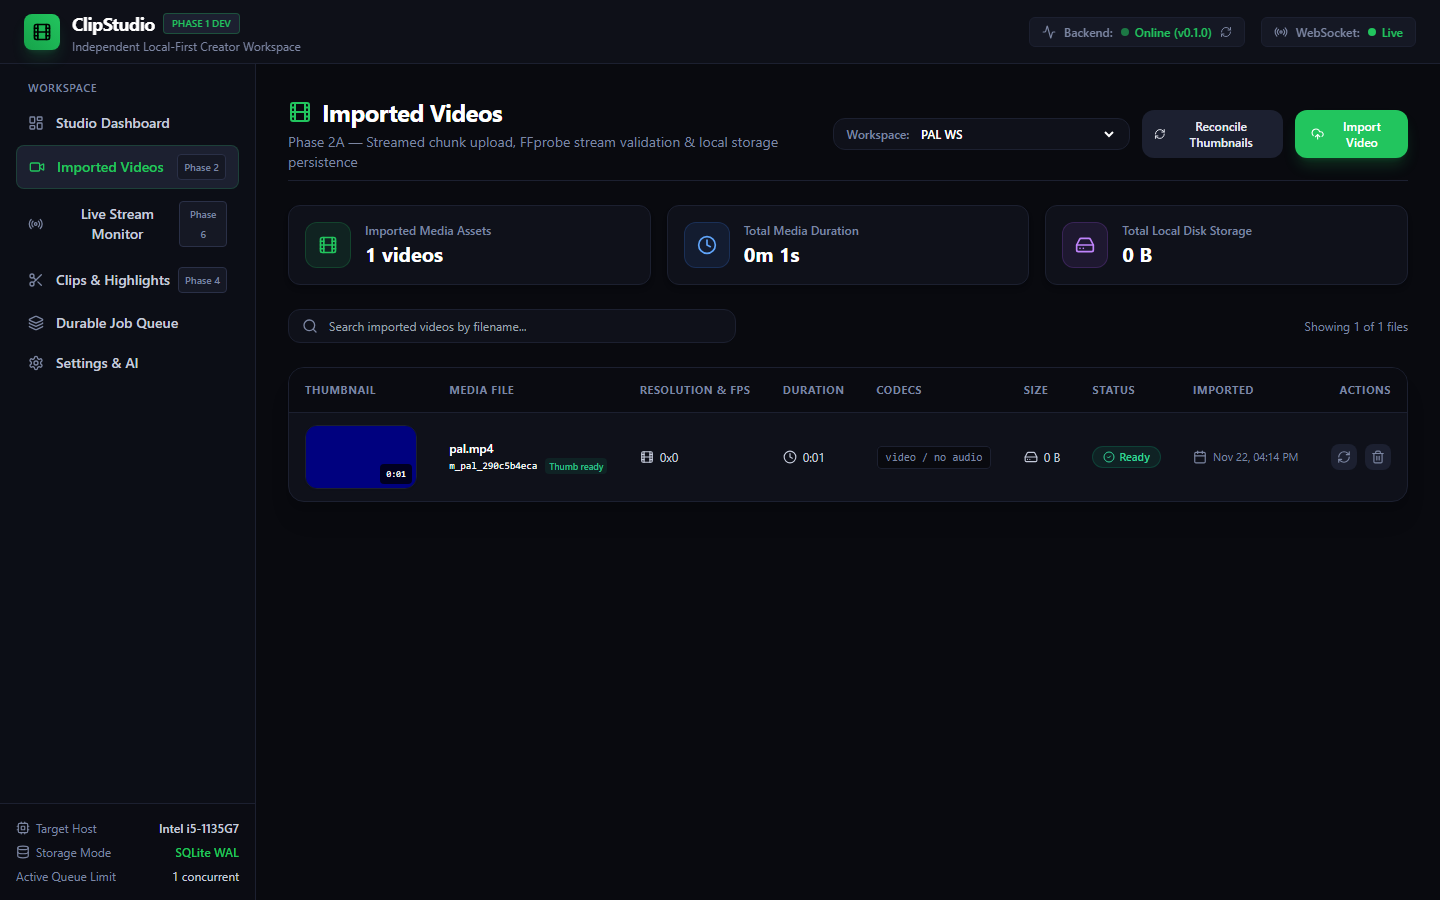
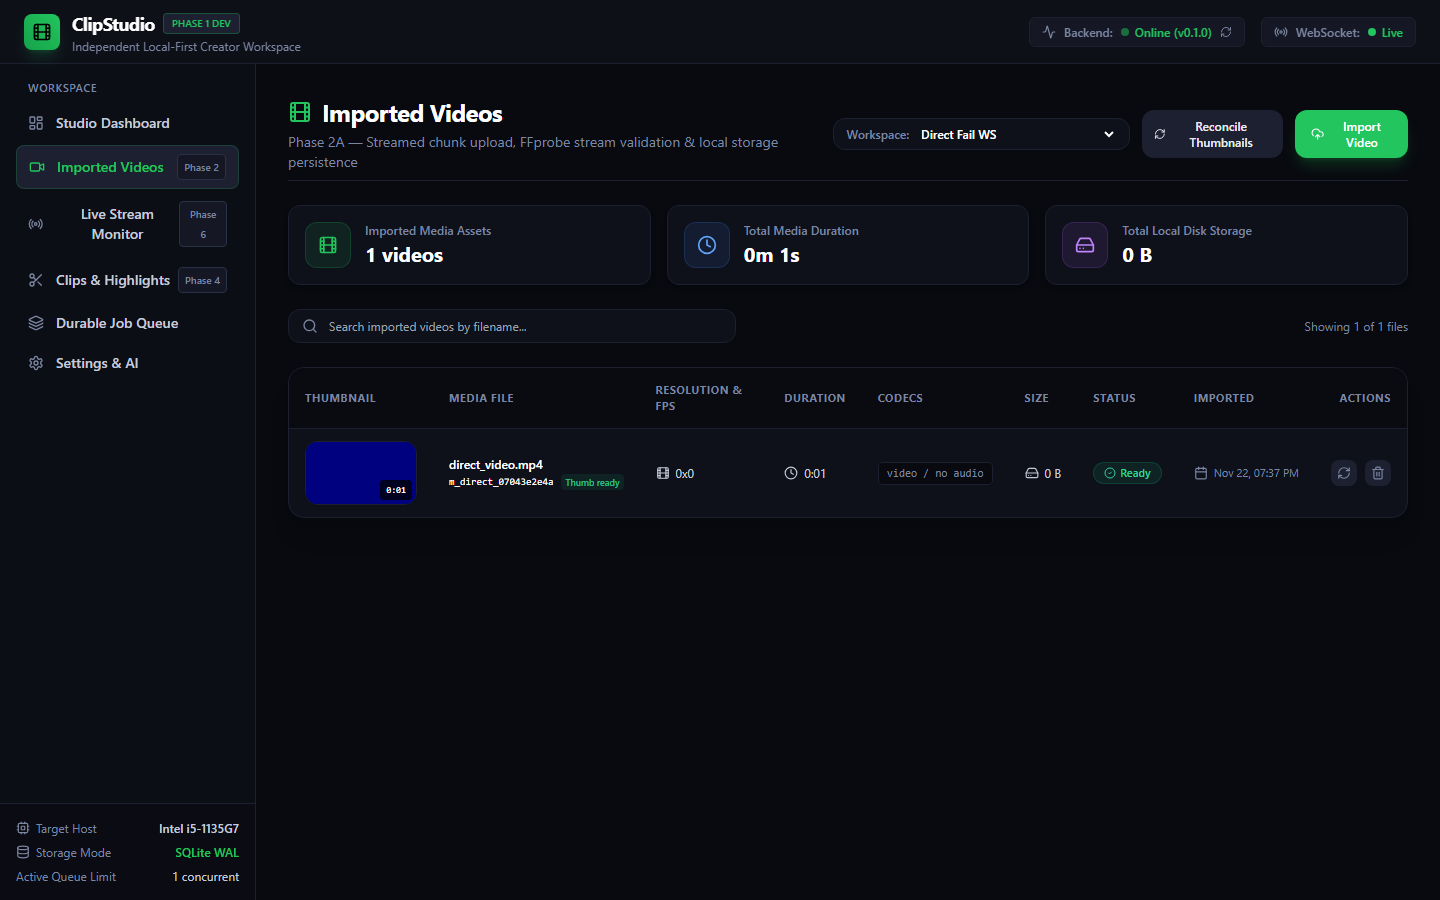
fix: harden thumbnail generation reliability
- Issue A: Prevent thumbnails from remaining indefinitely in invalid pending state by transitioning to failed on enqueue failure and broadcasting failure WebSocket event

- Issue B: Extract actual JPEG dimensions upon frame extraction, persist in ProcessingJob.result_data, and expose in real-time WebSocket broadcast

- Update backend and frontend tests (84/84 backend, 15/15 frontend passing)

- Add automated acceptance script and capture physical browser evidence

diff --git a/clipstudio-frontend/src/components/media/MediaTable.tsx b/clipstudio-frontend/src/components/media/MediaTable.tsx
@@ -291,6 +291,11 @@ export const MediaTable: React.FC<MediaTableProps> = ({
                                 Thumb ready
                               </span>
                             )}
+                            {thumbStatus === 'failed' && (
+                              <span className="text-[9px] text-red-400/90 font-medium bg-red-500/10 px-1 rounded">
+                                Thumb failed
+                              </span>
+                            )}
                           </div>
                         </div>
                       </div>

diff --git a/clipstudio-frontend/src/components/media/__tests__/MediaTable.test.tsx b/clipstudio-frontend/src/components/media/__tests__/MediaTable.test.tsx
@@ -186,6 +186,7 @@ describe('MediaTable Component - Thumbnail Engine Integration (Phase 2B.2)', () 
 
     const retryBtn = screen.getByRole('button', { name: /retry/i });
     expect(retryBtn).toBeDefined();
+    expect(screen.getByText('Thumb failed')).toBeDefined();
 
     await act(async () => {
       fireEvent.click(retryBtn);

diff --git a/clipstudio-backend/app/services/job_queue.py b/clipstudio-backend/app/services/job_queue.py
@@ -317,6 +317,10 @@ class JobQueueService:
                 duration_seconds=duration,
             )
 
+            from app.services.thumbnail import get_jpeg_dimensions
+            actual_w, actual_h = get_jpeg_dimensions(promoted_path)
+            file_size = promoted_path.stat().st_size if promoted_path.exists() else 0
+
             # 3. Update video record with generated thumbnail
             now = datetime.now(timezone.utc)
             async with async_session_factory() as session:
@@ -335,7 +339,9 @@ class JobQueueService:
                 message="Thumbnail generated successfully.",
                 result_data={
                     "thumbnail_path": rel_path,
-                    "file_size_bytes": promoted_path.stat().st_size if promoted_path.exists() else 0,
+                    "file_size_bytes": file_size,
+                    "width": actual_w,
+                    "height": actual_h,
                 },
             )
 
@@ -345,6 +351,9 @@ class JobQueueService:
                 "workspace_id": workspace_id,
                 "status": "completed",
                 "thumbnail_url": f"/api/v1/media/{media_id}/thumbnail",
+                "width": actual_w,
+                "height": actual_h,
+                "file_size_bytes": file_size,
                 "timestamp": now.isoformat(),
             })
 
@@ -378,78 +387,109 @@ class JobQueueService:
         Atomically sets ImportedVideo.thumbnail_status = 'pending' and creates ProcessingJob
         in a single transaction to prevent race conditions and SQLite multi-session deadlocks.
         Dispatches background worker only after database transaction commit succeeds.
+        On any enqueue failure, transitions media record to 'failed' and logs full diagnostics.
         """
-        if self._fault_injection_fail_enqueue:
-            raise RuntimeError("Simulated thumbnail job enqueue failure (fault injection active)")
+        try:
+            if self._fault_injection_fail_enqueue:
+                raise RuntimeError("Simulated thumbnail job enqueue failure (fault injection active)")
 
-        lock = await self._get_media_lock(media_id)
-        async with lock:
-            async with async_session_factory() as session:
-                stmt = select(ProcessingJob).where(
-                    ProcessingJob.entity_type == "media",
-                    ProcessingJob.entity_id == media_id,
-                    ProcessingJob.job_type == "thumbnail_generation",
-                    ProcessingJob.status.in_(["queued", "running"]),
-                )
-                res = await session.execute(stmt)
-                existing = res.scalar_one_or_none()
-                if existing:
-                    logger.info(
-                        f"Active thumbnail job {existing.id} already exists for media {media_id}. Reusing existing job."
+            lock = await self._get_media_lock(media_id)
+            async with lock:
+                async with async_session_factory() as session:
+                    stmt = select(ProcessingJob).where(
+                        ProcessingJob.entity_type == "media",
+                        ProcessingJob.entity_id == media_id,
+                        ProcessingJob.job_type == "thumbnail_generation",
+                        ProcessingJob.status.in_(["queued", "running"]),
                     )
-                    session.expunge(existing)
-                    return existing
+                    res = await session.execute(stmt)
+                    existing = res.scalar_one_or_none()
+                    if existing:
+                        logger.info(
+                            f"Active thumbnail job {existing.id} already exists for media {media_id}. Reusing existing job."
+                        )
+                        session.expunge(existing)
+                        return existing
 
-                from app.models.video import ImportedVideo
-                video = await session.get(ImportedVideo, media_id)
-                if video:
-                    video.thumbnail_status = "pending"
+                    from app.models.video import ImportedVideo
+                    video = await session.get(ImportedVideo, media_id)
+                    if video:
+                        video.thumbnail_status = "pending"
 
-                payload = {
-                    "media_id": media_id,
-                    "workspace_id": workspace_id,
-                    "file_path": file_path,
-                    "duration": duration_seconds,
-                }
-                job = ProcessingJob(
-                    job_type="thumbnail_generation",
-                    entity_type="media",
-                    entity_id=media_id,
+                    payload = {
+                        "media_id": media_id,
+                        "workspace_id": workspace_id,
+                        "file_path": file_path,
+                        "duration": duration_seconds,
+                    }
+                    job = ProcessingJob(
+                        job_type="thumbnail_generation",
+                        entity_type="media",
+                        entity_id=media_id,
+                        status="queued",
+                        progress_percent=0.0,
+                        current_step="Queued in scheduler",
+                        result_data=json.dumps(payload),
+                    )
+                    session.add(job)
+                    await session.commit()
+                    await session.refresh(job)
+                    session.expunge(job)
+                    job_id = job.id
+
+                # Broadcast initial queued status
+                await ws_manager.broadcast_job_progress(
+                    job_id=job_id,
                     status="queued",
                     progress_percent=0.0,
                     current_step="Queued in scheduler",
-                    result_data=json.dumps(payload),
+                    message="Job thumbnail_generation has been queued.",
                 )
-                session.add(job)
-                await session.commit()
-                await session.refresh(job)
-                session.expunge(job)
-                job_id = job.id
+                try:
+                    await ws_manager.broadcast({
+                        "event_type": "thumbnail_updated",
+                        "media_id": media_id,
+                        "workspace_id": workspace_id,
+                        "status": "queued",
+                        "timestamp": datetime.now(timezone.utc).isoformat(),
+                    })
+                except Exception:
+                    pass
 
-            # Broadcast initial queued status
-            await ws_manager.broadcast_job_progress(
-                job_id=job_id,
-                status="queued",
-                progress_percent=0.0,
-                current_step="Queued in scheduler",
-                message="Job thumbnail_generation has been queued.",
+                # Dispatch async execution task ONLY after database transaction has committed
+                task = asyncio.create_task(self._execute_job_wrapper(job_id, "thumbnail_generation", payload))
+                self._active_tasks[job_id] = task
+
+                return job
+
+        except Exception as exc:
+            logger.error(
+                f"Failed to enqueue thumbnail job for media {media_id} in workspace {workspace_id}: {exc}",
+                exc_info=True,
             )
+            # Ensure media thumbnail_status transitions to 'failed' rather than staying in an invalid 'pending' state
+            try:
+                async with async_session_factory() as fail_session:
+                    from app.models.video import ImportedVideo
+                    v = await fail_session.get(ImportedVideo, media_id)
+                    if v and v.thumbnail_status in ("pending", "processing"):
+                        v.thumbnail_status = "failed"
+                        await fail_session.commit()
+            except Exception as mark_err:
+                logger.error(f"Failed to mark media {media_id} thumbnail as failed after enqueue failure: {mark_err}")
+
             try:
                 await ws_manager.broadcast({
                     "event_type": "thumbnail_updated",
                     "media_id": media_id,
                     "workspace_id": workspace_id,
-                    "status": "queued",
+                    "status": "failed",
+                    "error": str(exc),
                     "timestamp": datetime.now(timezone.utc).isoformat(),
                 })
             except Exception:
                 pass
-
-            # Dispatch async execution task ONLY after database transaction has committed
-            task = asyncio.create_task(self._execute_job_wrapper(job_id, "thumbnail_generation", payload))
-            self._active_tasks[job_id] = task
-
-            return job
+            raise
 
     async def reconcile_pending_thumbnails(self, workspace_id: str | None = None) -> list[str]:
         """Scans imported videos for pending, interrupted, or missing thumbnails and safely schedules generation.

diff --git a/clipstudio-backend/tests/test_thumbnail_reliability.py b/clipstudio-backend/tests/test_thumbnail_reliability.py
@@ -1,5 +1,6 @@
 import asyncio
 from datetime import datetime, timezone, timedelta
+import json
 import os
 import shutil
 import tempfile
@@ -353,12 +354,14 @@ async def test_enqueue_failure_followed_by_recovery(tmp_path):
         comp_res = await client.post(f"/api/v1/media/uploads/{upload_id}/complete", json={})
         assert comp_res.status_code == 200  # import still succeeds gracefully!
         assert comp_res.json()["status"] == "completed"
+        # Issue A: Ensure thumbnail_status transitions to 'failed' rather than invalid 'pending'
+        assert comp_res.json()["video"]["thumbnail_status"] == "failed"
 
-    # Step 2: Verify in DB that video exists, thumbnail_status is 'pending', and no job was created
+    # Step 2: Verify in DB that video exists, thumbnail_status is 'failed', and no job was created
     async with async_session_factory() as session:
         v = await session.get(ImportedVideo, upload_id)
         assert v is not None
-        assert v.thumbnail_status == "pending"
+        assert v.thumbnail_status == "failed"
         jobs = (await session.execute(select(ProcessingJob).where(ProcessingJob.entity_id == upload_id))).scalars().all()
         assert len(jobs) == 0
 
@@ -792,3 +795,97 @@ async def test_thumbnail_job_cancellation_and_terminal_state(tmp_path):
     # Cancel job
     res = await job_queue.cancel_job(job.id)
     assert res is True or job.status == "completed"
+
+
+@pytest.mark.asyncio
+async def test_thumbnail_job_result_data_captures_actual_dimensions(tmp_path):
+    """Scenario 16: Completed thumbnail generation job persists actual width, height, and file size in result_data."""
+    ws_id = f"ws_dim_{uuid.uuid4().hex[:10]}"
+    media_id = f"m_dim_{uuid.uuid4().hex[:10]}"
+    video_file = tmp_path / "dim_video.mp4"
+    # Create 1920x1080 video -> generated thumbnail scaled to 640x360
+    await create_synthetic_video(video_file, width=1920, height=1080, duration_seconds=1.5)
+
+    async with async_session_factory() as session:
+        ws = Workspace(id=ws_id, name="Dim WS", local_storage_path="data/media")
+        session.add(ws)
+        v = ImportedVideo(
+            id=media_id,
+            workspace_id=ws_id,
+            file_name="dim_video.mp4",
+            file_path=str(video_file),
+            duration_seconds=1.5,
+            width=1920,
+            height=1080,
+            status="ready",
+            thumbnail_status="pending",
+        )
+        session.add(v)
+        await session.commit()
+
+    job = await job_queue.enqueue_thumbnail_job(
+        media_id=media_id,
+        workspace_id=ws_id,
+        file_path=str(video_file),
+        duration_seconds=1.5,
+    )
+
+    # Wait for completion
+    for _ in range(80):
+        async with async_session_factory() as session:
+            j = await session.get(ProcessingJob, job.id)
+            if j and j.status == "completed":
+                break
+        await asyncio.sleep(0.1)
+
+    async with async_session_factory() as session:
+        completed_job = await session.get(ProcessingJob, job.id)
+        assert completed_job is not None
+        assert completed_job.status == "completed"
+        assert completed_job.result_data is not None
+        result_info = json.loads(completed_job.result_data)
+        assert result_info["width"] == 640
+        assert result_info["height"] == 360
+        assert result_info["file_size_bytes"] > 0
+
+
+@pytest.mark.asyncio
+async def test_direct_enqueue_failure_marks_media_failed(tmp_path):
+    """Scenario 17: Direct enqueue_thumbnail_job failure transitions media record to failed rather than pending."""
+    ws_id = f"ws_direct_{uuid.uuid4().hex[:10]}"
+    media_id = f"m_direct_{uuid.uuid4().hex[:10]}"
+    video_file = tmp_path / "direct_video.mp4"
+    await create_synthetic_video(video_file, width=640, height=360, duration_seconds=1.0)
+
+    async with async_session_factory() as session:
+        ws = Workspace(id=ws_id, name="Direct Fail WS", local_storage_path="data/media")
+        session.add(ws)
+        v = ImportedVideo(
+            id=media_id,
+            workspace_id=ws_id,
+            file_name="direct_video.mp4",
+            file_path=str(video_file),
+            duration_seconds=1.0,
+            status="ready",
+            thumbnail_status="pending",
+        )
+        session.add(v)
+        await session.commit()
+
+    job_queue._fault_injection_fail_enqueue = True
+    try:
+        with pytest.raises(RuntimeError, match="Simulated thumbnail job enqueue failure"):
+            await job_queue.enqueue_thumbnail_job(
+                media_id=media_id,
+                workspace_id=ws_id,
+                file_path=str(video_file),
+                duration_seconds=1.0,
+            )
+    finally:
+        job_queue._fault_injection_fail_enqueue = False
+
+    async with async_session_factory() as session:
+        v = await session.get(ImportedVideo, media_id)
+        assert v is not None
+        assert v.thumbnail_status == "failed"
+

diff --git a/clipstudio-backend/app/api/v1/media.py b/clipstudio-backend/app/api/v1/media.py
@@ -568,7 +568,7 @@ async def complete_upload(
         except Exception:
             pass
 
-        # 8. Auto-trigger thumbnail generation job (Phase 2B.2)
+        # 8. Auto-trigger thumbnail generation job (Phase 2B.2 & 2B.3)
         try:
             from app.services.job_queue import job_queue
             await job_queue.enqueue_thumbnail_job(
@@ -578,7 +578,29 @@ async def complete_upload(
                 duration_seconds=video.duration_seconds,
             )
         except Exception as thumb_err:
-            logger.warning(f"Failed to auto-enqueue thumbnail job for media {video.id}: {thumb_err}")
+            logger.error(
+                f"Failed to auto-enqueue thumbnail job for media {video.id} in workspace {video.workspace_id}: {thumb_err}",
+                exc_info=True,
+            )
+            # Ensure thumbnail_status is recorded as failed in the DB to avoid indefinite invalid pending state (Issue A)
+            try:
+                video.thumbnail_status = "failed"
+                await db.commit()
+                await db.refresh(video)
+            except Exception as update_err:
+                logger.error(f"Failed to record thumbnail failure status for media {video.id}: {update_err}")
+
+            try:
+                await ws_manager.broadcast({
+                    "event_type": "thumbnail_updated",
+                    "media_id": video.id,
+                    "workspace_id": video.workspace_id,
+                    "status": "failed",
+                    "error": str(thumb_err),
+                    "timestamp": datetime.now(timezone.utc).isoformat(),
+                })
+            except Exception:
+                pass
 
         return UploadCompleteResponse(
             status="completed",
